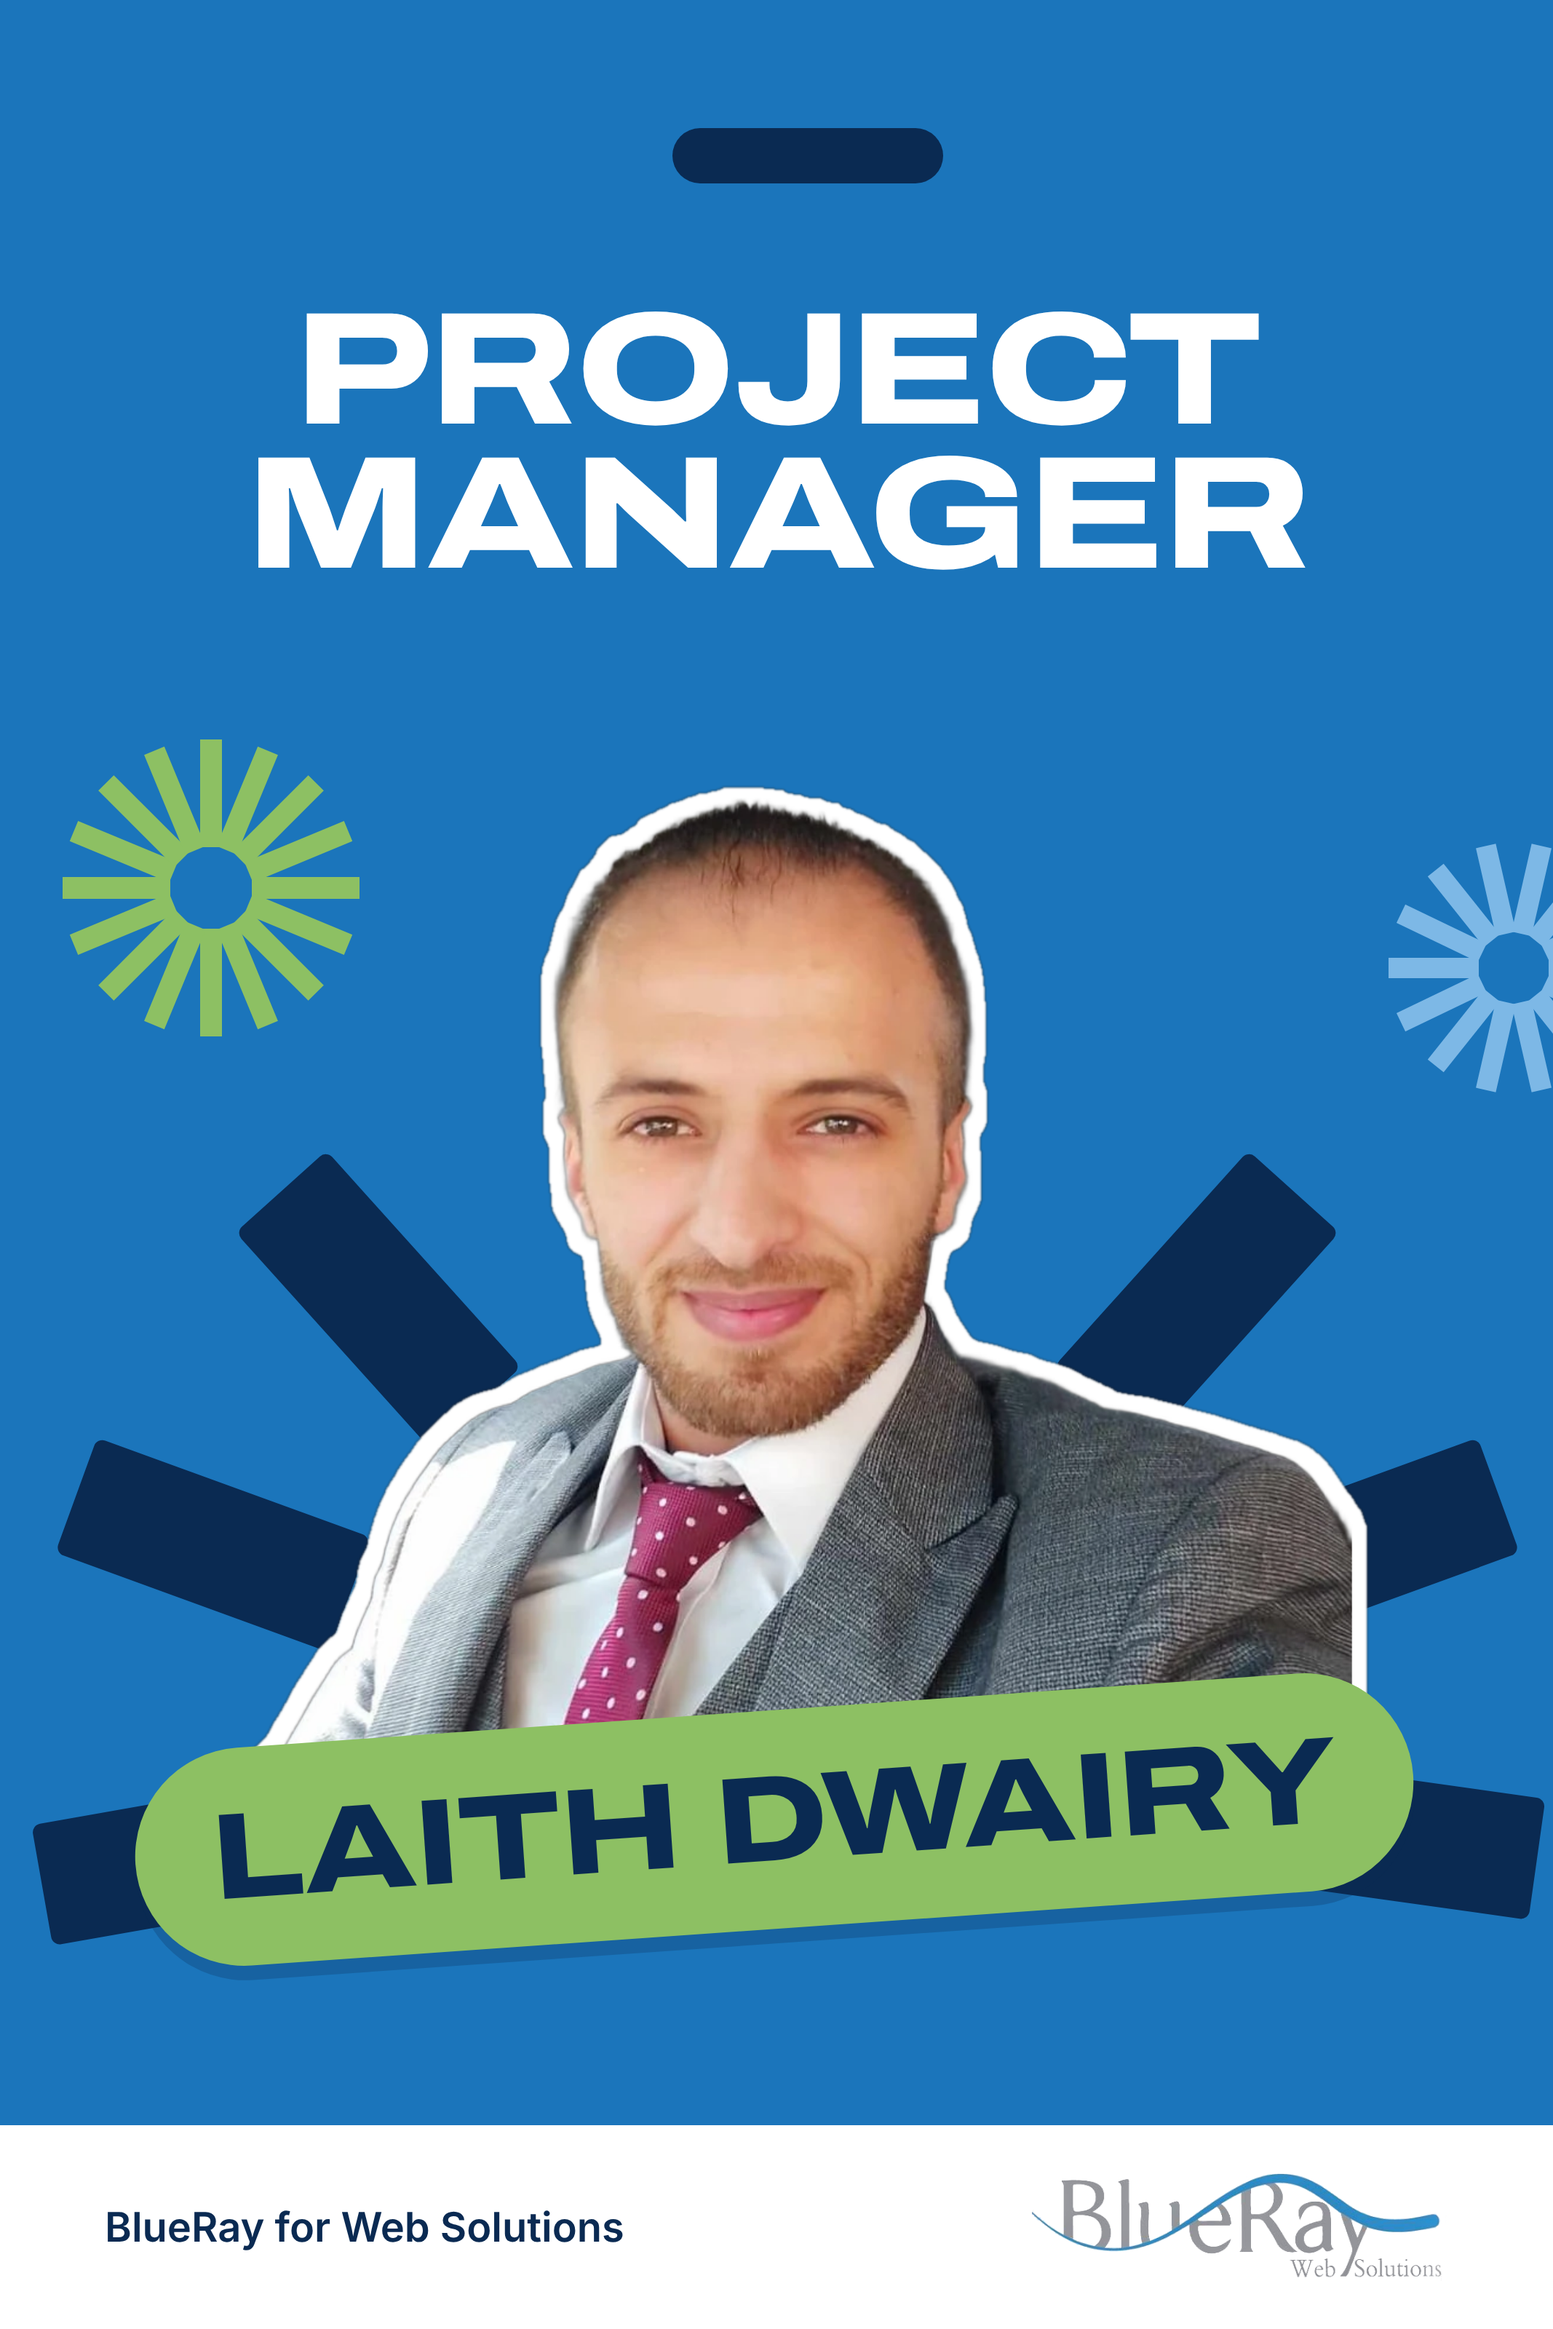
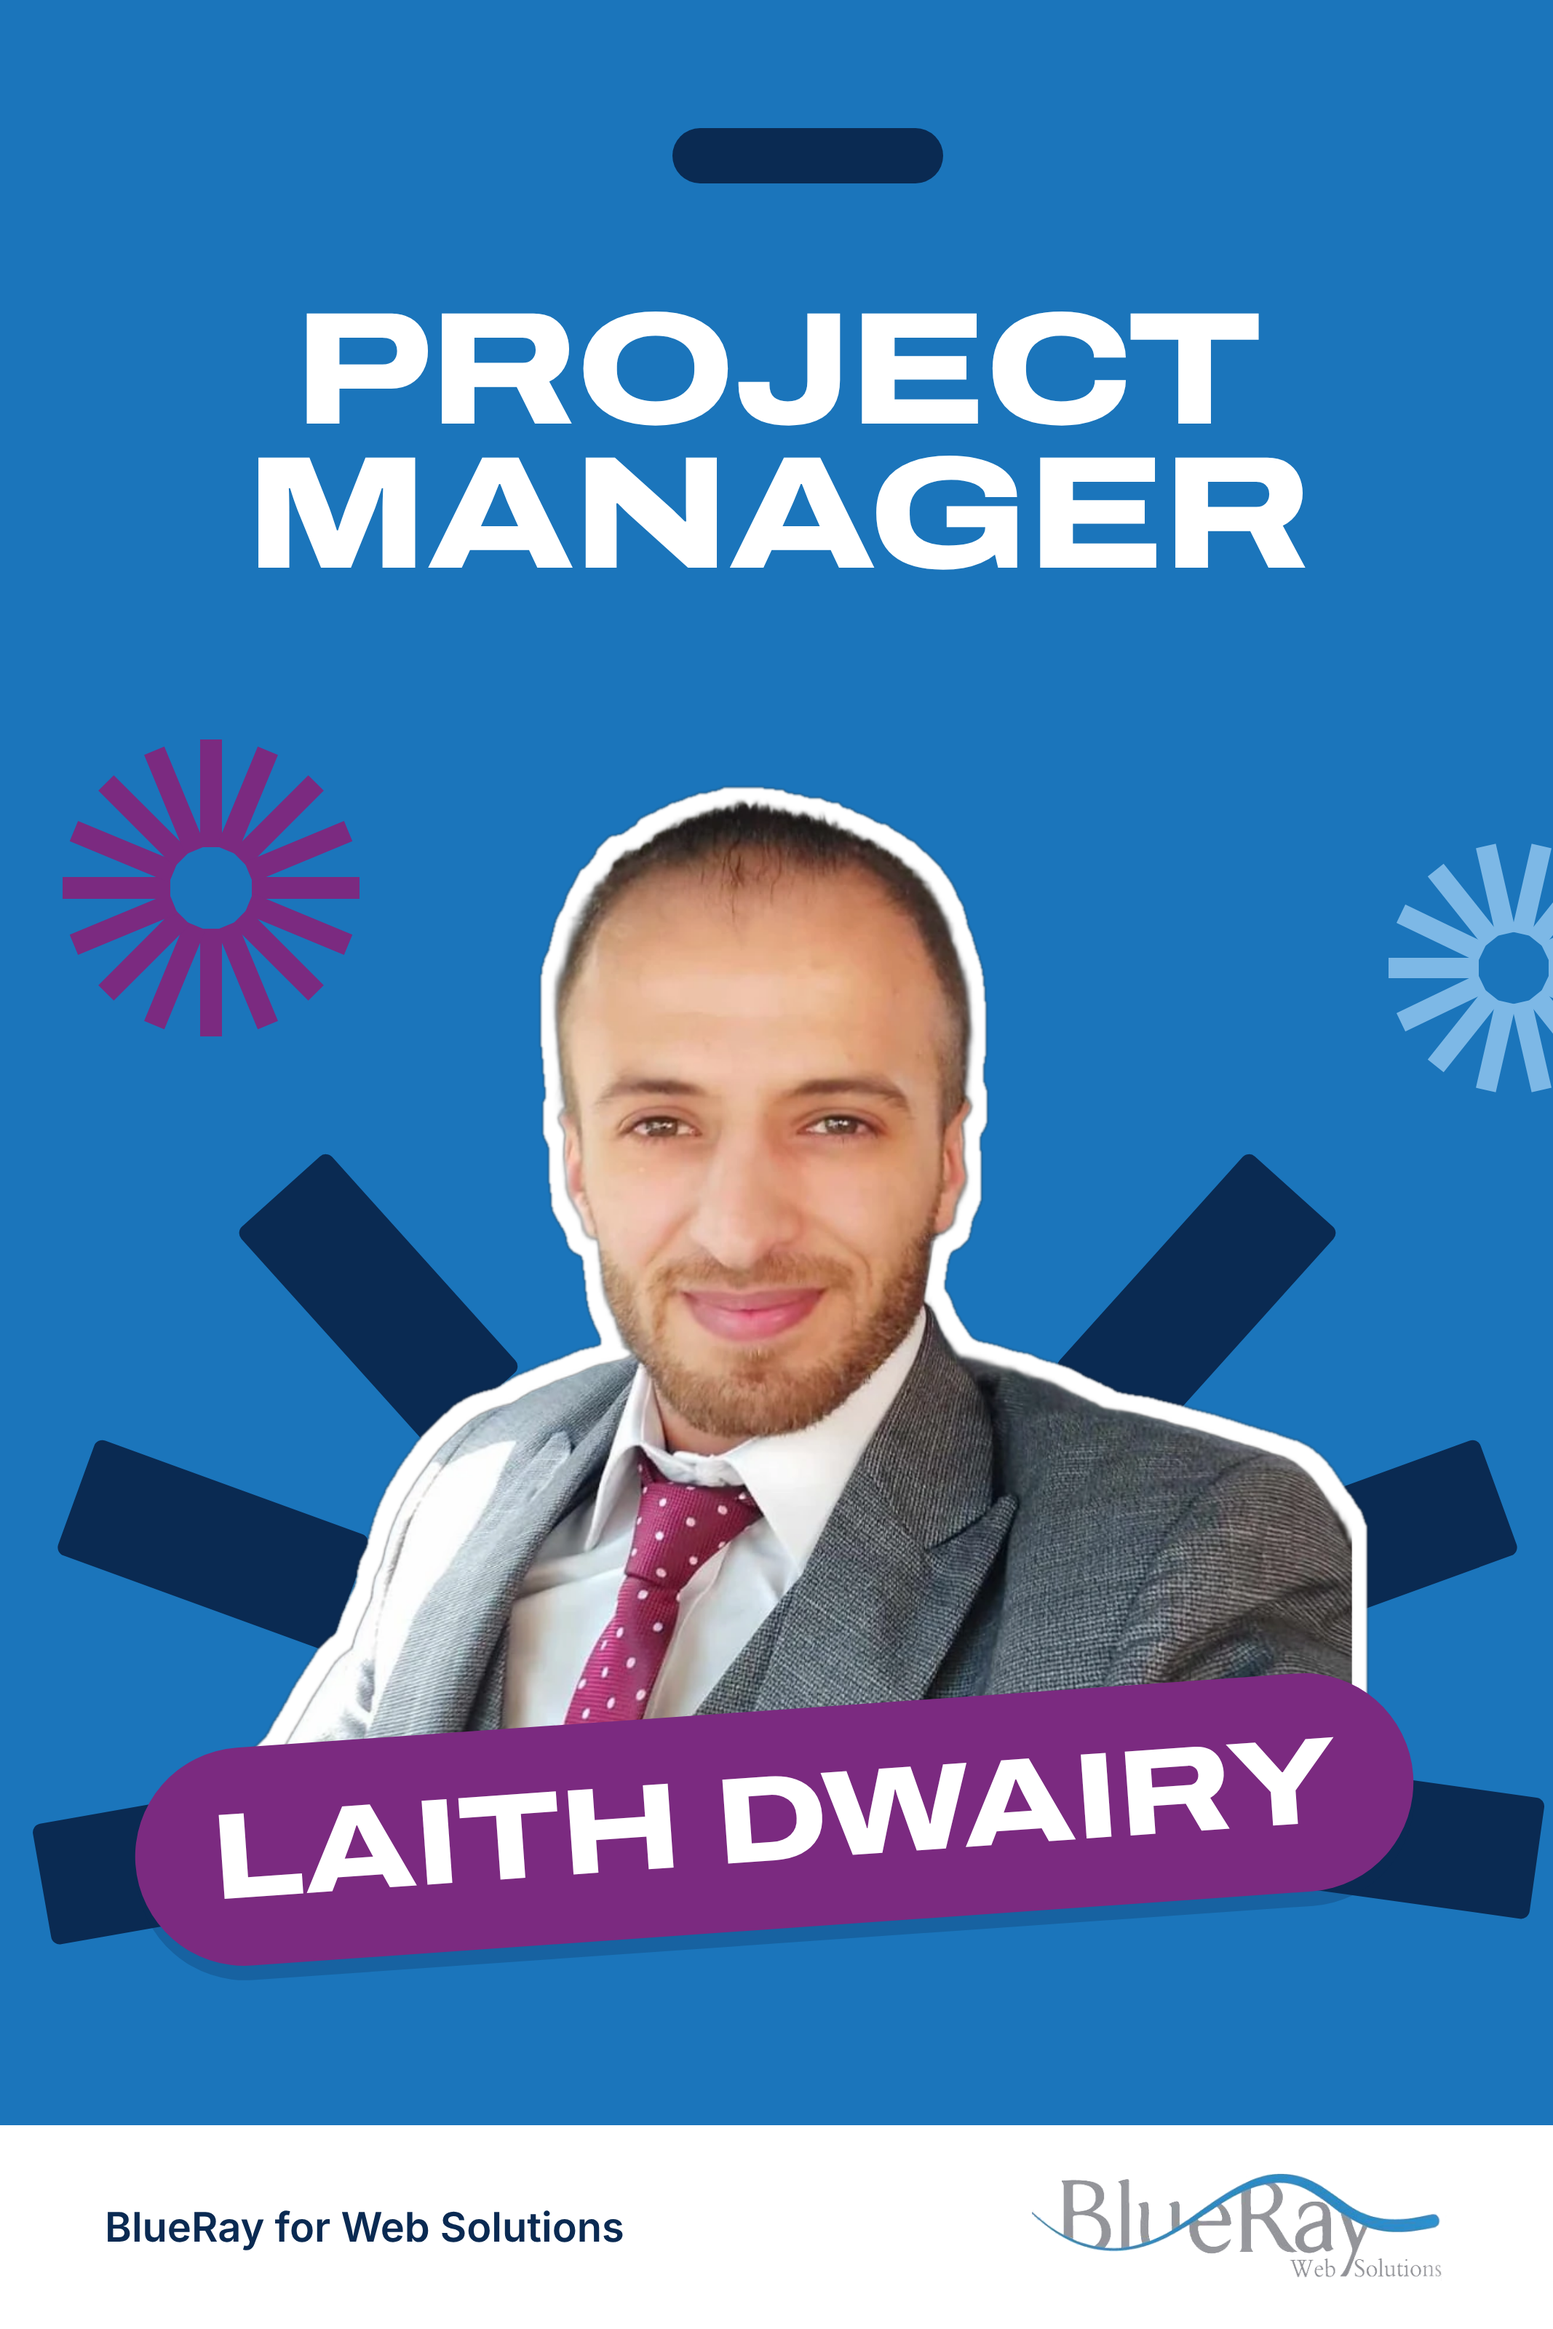
Badge: purple name pill and matching starburst
Claude-Session: https://claude.ai/code/session_01GLVNWT9FhAKwZbzGjMeeqq

Changed region(s): [[0.0619, 0.7188, 0.9278, 0.8438], [0.0309, 0.3125, 0.2474, 0.4688]]

diff --git a/badges/badge.html b/badges/badge.html
@@ -9,7 +9,7 @@ body{width:1067px;height:1600px;background:var(--blue);overflow:hidden;font-fami
 .slot{position:absolute;left:462px;top:88px;width:186px;height:38px;border-radius:19px;background:var(--navy)}
 .title{position:absolute;left:0;right:0;top:205px;text-align:center;color:#fff;font-weight:800;font-stretch:125%;line-height:.9;letter-spacing:-2px;white-space:nowrap}
 svg.art{position:absolute;left:0;top:0}
-.name{position:absolute;left:92px;top:1175px;width:880px;height:150px;background:var(--green);border-radius:75px;transform:rotate(-4deg);display:flex;align-items:center;justify-content:center;color:var(--navy);font-weight:800;font-stretch:125%;font-size:84px;letter-spacing:-1px;white-space:nowrap;box-shadow:0 10px 0 rgba(10,42,82,.25)}
+.name{position:absolute;left:92px;top:1175px;width:880px;height:150px;background:var(--purple);border-radius:75px;transform:rotate(-4deg);display:flex;align-items:center;justify-content:center;color:#fff;font-weight:800;font-stretch:125%;font-size:84px;letter-spacing:-1px;white-space:nowrap;box-shadow:0 10px 0 rgba(10,42,82,.25)}
 .co{position:absolute;left:500px;top:1242px;height:86px;padding:0 40px;background:var(--purple);border-radius:43px;display:flex;align-items:center;color:#fff;font-family:'Barlow Semi Condensed',sans-serif;font-weight:600;font-size:46px;letter-spacing:2px;box-shadow:0 0 0 6px var(--blue)}
 .strip{position:absolute;left:0;right:0;bottom:0;height:140px;background:#fff;display:flex;align-items:center;justify-content:space-between;padding:0 72px}
 .foot{color:var(--navy);font-family:Inter,Arial,sans-serif;font-weight:600;font-size:28px;letter-spacing:0;line-height:1}
@@ -27,7 +27,7 @@ svg.art{position:absolute;left:0;top:0}
   <!-- sun rays behind photo -->
   <g id="rays" fill="var(--navy)"></g>
   <!-- starbursts -->
-  <g id="b1" transform="translate(145,610)" fill="var(--green)"></g>
+  <g id="b1" transform="translate(145,610)" fill="var(--purple)"></g>
   <g id="b2" transform="translate(1040,665)" fill="var(--sky)"></g>
   <!-- photo placeholder (cut-out sticker) -->
   <image href="laith-photo.png" x="141" y="535" width="800" height="746" preserveAspectRatio="xMidYMax meet"/>
